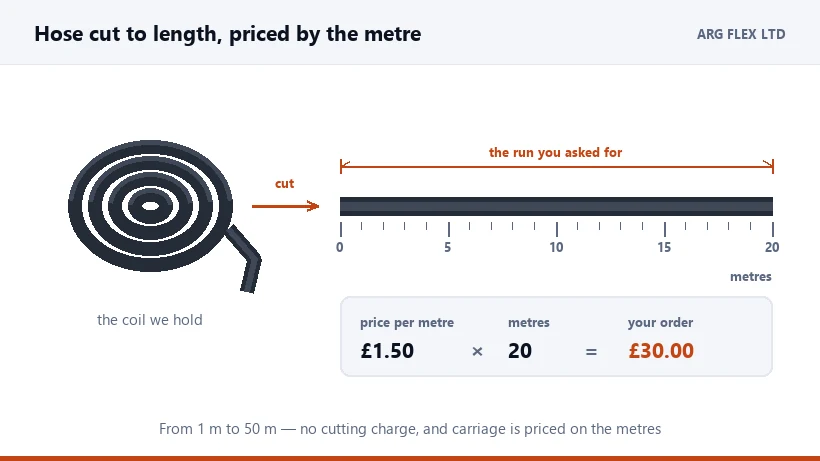
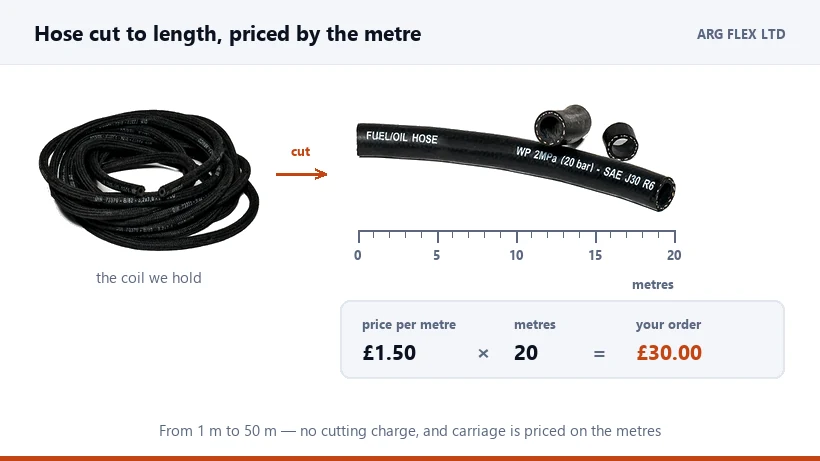
Article images redrawn from the shop's own photographs
The first version was line drawings, which do not belong next to the twenty
articles already there: those are product photographs on white, laid out side
by side with a caption under each. These now match, using photographs already
in assets/img/products, so every pixel is still the shop's own.

The drawing is kept only for what a photograph cannot say — which hose goes
inside the tank and which must not, what a metre scale looks like against a
real length, where on a cut end a bore is measured. The bore article gets the
R6 photograph because it happens to show two cut ends, which is the whole
subject.

Three things the first render got wrong and this one does not: the metre scale
ran underneath the price panel, which covered every number on it; the callout
label sat on the black hose, dark red on black; and the submersible hose was
shot against a pale blue that stayed as a rectangle stuck to the page. The
background is white in that photograph — the cast is a reflection at about
(218, 241, 249), bright but distinctly blue, so it is lifted by colour rather
than by brightness. The hose is far too dark to be touched by that rule.

Still needs a deploy before the Image field in Admin -> Blog can point at
assets/img/blog/<slug>.webp — the files 404 on the server today.

diff --git a/.data/make_blog_images.py b/.data/make_blog_images.py
@@ -1,37 +1,33 @@
-"""Draw the three article images for argflex.co.uk.
+"""Draw the three new article images for argflex.co.uk.
 
-Diagrams, not photographs. For "how to measure a bore" a cross-section with the
-two diameters marked is worth more than any photograph of a hose, and drawing
-them keeps every pixel the shop's own — no stock library, nothing lifted from
-a competitor.
+    python .data/make_blog_images.py
 
-Palette and proportions come from assets/css/v1.css so they sit beside the
-site rather than on top of it. 820x461 is what pages/post.php declares.
+HOUSE STYLE. The twenty older article images are the shop's own product
+photographs on white, laid out side by side with a caption under each. These
+match that: the photographs are the ones already in assets/img/products, so
+every pixel is the shop's own — no stock library, nothing from a competitor's
+catalogue. The drawing on top is only what a photograph cannot say: which hose
+goes inside the tank, what a metre scale looks like, where a bore is measured.
+
+820x461 is the size pages/post.php declares, and the article image is also the
+og:image, so it is what gets shown when somebody shares the page.
 """
 import math
 import os
 from PIL import Image, ImageDraw, ImageFont
 
 W, H = 820, 461
-OUT = os.path.join(os.path.dirname(os.path.abspath(__file__)), '..', 'assets', 'img', 'blog')
-os.makedirs(OUT, exist_ok=True)
+ROOT = os.path.join(os.path.dirname(os.path.abspath(__file__)), '..')
+SRC  = os.path.join(ROOT, 'assets', 'img', 'products')
+OUT  = os.path.join(ROOT, 'assets', 'img', 'blog')
 
-INK   = (11, 18, 32)
-STEEL = (91, 104, 128)
-LINE  = (227, 231, 238)
-SOFT  = (244, 246, 250)
-BG    = (255, 255, 255)
-BRAND = (195, 69, 21)
-BRIGHT = (255, 90, 31)
-RUBBER = (38, 44, 56)
-RUBBER_L = (64, 72, 88)
+INK, STEEL, LINE = (11, 18, 32), (91, 104, 128), (227, 231, 238)
+SOFT, BG, BRAND = (244, 246, 250), (255, 255, 255), (195, 69, 21)
 
-F = 'C:/Windows/Fonts/segoeui.ttf'
-FB = 'C:/Windows/Fonts/segoeuib.ttf'
-def font(size, bold=False):
-    return ImageFont.truetype(FB if bold else F, size)
-
-H1, H2, BODY, SMALL, TINY = font(30, True), font(21, True), font(17), font(15), font(13, True)
+F, FB = 'C:/Windows/Fonts/segoeui.ttf', 'C:/Windows/Fonts/segoeuib.ttf'
+def font(s, bold=False):
+    return ImageFont.truetype(FB if bold else F, s)
+H2, BODY, SMALL, TINY = font(21, True), font(17), font(15), font(13, True)
 
 
 def canvas():
@@ -43,10 +39,51 @@ def canvas():
     return im, d
 
 
-def title(d, text, sub=None):
+def title(d, text):
     d.text((34, 18), text, font=H2, fill=INK)
-    if sub:
-        d.text((W - 34, 24), sub, font=TINY, fill=STEEL, anchor='ra')
+    d.text((W - 34, 24), 'ARG FLEX LTD', font=TINY, fill=STEEL, anchor='ra')
+
+
+def photo(name, box_w, box_h):
+    """A product photograph, trimmed of its margin and fitted to a box.
+
+    The threshold is deliberately generous: these were not all shot on the
+    same white. The submersible hose sits on a pale blue-grey that reads as a
+    panel stuck on the page when it is kept, so anything near-white goes.
+    """
+    im = Image.open(os.path.join(SRC, name + '.webp')).convert('RGB')
+    mask = im.convert('L').point(lambda v: 255 if v < 232 else 0)
+    bbox = mask.getbbox()
+    if bbox:
+        pad = 6
+        im = im.crop((max(0, bbox[0] - pad), max(0, bbox[1] - pad),
+                      min(im.width, bbox[2] + pad), min(im.height, bbox[3] + pad)))
+
+    # The remaining background is levelled to white so photographs taken on
+    # different days sit on one page without seams.
+    im.thumbnail((box_w, box_h), Image.LANCZOS)
+    return whiten(im)
+
+
+def whiten(im, cut=228, tint=200, bias=12):
+    """Lift a near-white photographic background to true white.
+
+    Two different things are removed. The first is anything already near
+    white, which varies a shade between photographs. The second is the pale
+    blue cast the submersible hose was shot against — measured at about
+    (218, 241, 249), light but distinctly blue, so brightness alone leaves it
+    as a rectangle stuck to the page. A pixel that is bright AND noticeably
+    bluer than it is red is that cast; the hose itself is far too dark to
+    qualify, and a neutral grey has no bias to trip on.
+    """
+    px = im.load()
+    for y in range(im.height):
+        for x in range(im.width):
+            r, g, b = px[x, y]
+            if (r >= cut and g >= cut and b >= cut) \
+               or (min(r, g, b) >= tint and b - r >= bias):
+                px[x, y] = (255, 255, 255)
+    return im
 
 
 def arrow(d, x1, y1, x2, y2, colour=BRAND, width=3, head=11):
@@ -57,62 +94,38 @@ def arrow(d, x1, y1, x2, y2, colour=BRAND, width=3, head=11):
                fill=colour, width=width)
 
 
-def dim(d, x1, x2, y, label, colour=BRAND):
-    """A dimension line with ticks at both ends and a label above it."""
-    d.line([x1, y, x2, y], fill=colour, width=2)
+def dim(d, x1, x2, y, label):
+    d.line([x1, y, x2, y], fill=BRAND, width=2)
     for x in (x1, x2):
-        d.line([x, y - 7, x, y + 7], fill=colour, width=2)
-    for s in (1, -1):
-        d.line([x1 if s > 0 else x2, y, (x1 + 9 * s) if s > 0 else (x2 - 9), y - 5], fill=colour, width=2)
+        d.line([x, y - 7, x, y + 7], fill=BRAND, width=2)
     tw = d.textlength(label, font=TINY)
-    d.rectangle([(x1 + x2) / 2 - tw / 2 - 7, y - 24, (x1 + x2) / 2 + tw / 2 + 7, y - 6], fill=BG)
-    d.text(((x1 + x2) / 2, y - 15), label, font=TINY, fill=colour, anchor='mm')
-
-
-def hose_run(d, pts, outer=17, inner=8, colour=RUBBER):
-    """A length of hose drawn as a thick dark line with a lighter core."""
-    d.line(pts, fill=colour, width=outer, joint='curve')
-    d.line(pts, fill=RUBBER_L, width=inner, joint='curve')
+    d.rectangle([(x1 + x2) / 2 - tw / 2 - 7, y - 23, (x1 + x2) / 2 + tw / 2 + 7, y - 5], fill=BG)
+    d.text(((x1 + x2) / 2, y - 14), label, font=TINY, fill=BRAND, anchor='mm')
 
 
 # ---------------------------------------------------------------- image one
 def r6_vs_r10():
     im, d = canvas()
-    title(d, 'SAE J30 R6 and R10 — where each one belongs', 'ARG FLEX LTD')
+    title(d, 'SAE J30 R6 and R10 \u2014 where each one belongs')
 
     mid = W // 2
-    d.line([mid, 92, mid, H - 70], fill=LINE, width=2)
+    d.line([mid, 96, mid, 372], fill=LINE, width=1)
 
-    # ---- left: the tank, with R10 inside it
-    d.text((34, 86), 'INSIDE THE TANK', font=TINY, fill=STEEL)
-    tank = [44, 128, mid - 46, 300]
-    d.rounded_rectangle(tank, radius=18, fill=SOFT, outline=STEEL, width=2)
-    d.rectangle([tank[0] + 10, 206, tank[2] - 10, tank[3] - 12], fill=(206, 221, 238))
-    d.text((tank[0] + 18, 212), 'fuel', font=SMALL, fill=(70, 96, 128))
-    # pump body and the submersible hose looping in the fuel
-    d.rounded_rectangle([mid - 150, 150, mid - 116, 214], radius=6, fill=STEEL)
-    hose_run(d, [(mid - 133, 214), (mid - 133, 254), (118, 254), (118, 224)])
-    d.ellipse([110, 214, 126, 230], outline=RUBBER, width=4)
-    d.text((44, 312), 'SAE J30 R10', font=H2, fill=BRAND)
-    for i, s in enumerate(['FKM tube, thermoplastic lining',
-                           'rated for constant immersion',
-                           '\u221240 \u00b0C to +125 \u00b0C']):
-        d.text((44, 344 + i * 23), '\u2022  ' + s, font=SMALL, fill=INK)
+    for x0, name, head, lines in (
+        (34, 'oil-resistant-hose-sae-j30-r6-10mm', 'SAE J30 R6',
+         ['Tank to engine, oil and return lines', 'NOT to be submerged in fuel',
+          '\u221240 \u00b0C to +100 \u00b0C  \u00b7  13 bores in stock']),
+        (mid + 34, 'submersible-fuel-hose-sae-j30-r10-0-5m-50m', 'SAE J30 R10',
+         ['Inside the tank, around the pump', 'FKM tube, rated for immersion',
+          '\u221240 \u00b0C to +125 \u00b0C']),
+    ):
+        p = photo(name, mid - 92, 170)
+        im.paste(p, (x0 + (mid - 68 - p.width) // 2, 96 + (174 - p.height) // 2))
+        d.text((x0, 286), head, font=H2, fill=BRAND)
+        for i, s in enumerate(lines):
+            d.text((x0, 318 + i * 22), '\u2022  ' + s, font=SMALL, fill=INK)
 
-    # ---- right: the engine run, with R6
-    d.text((mid + 34, 86), 'TANK TO ENGINE', font=TINY, fill=STEEL)
-    d.rounded_rectangle([W - 190, 150, W - 62, 258], radius=10, fill=SOFT, outline=STEEL, width=2)
-    for i in range(4):
-        d.rounded_rectangle([W - 176 + i * 29, 132, W - 158 + i * 29, 152], radius=4, fill=STEEL)
-    d.text((W - 180, 196), 'engine', font=SMALL, fill=STEEL)
-    hose_run(d, [(mid + 44, 300), (mid + 44, 222), (W - 190, 222)])
-    d.text((mid + 34, 312), 'SAE J30 R6', font=H2, fill=BRAND)
-    for i, s in enumerate(['synthetic rubber, oil resistant',
-                           'NOT to be submerged in fuel',
-                           '\u221240 \u00b0C to +100 \u00b0C']):
-        d.text((mid + 34, 344 + i * 23), '\u2022  ' + s, font=SMALL, fill=INK)
-
-    d.text((W // 2, H - 34), 'One standard, two jobs — the wrong one in a tank swells, softens and leaks',
+    d.text((W // 2, H - 32), 'One standard, two jobs \u2014 the wrong one in a tank swells, softens and leaks',
            font=SMALL, fill=STEEL, anchor='mm')
     return im
 
@@ -120,49 +133,43 @@ def r6_vs_r10():
 # ---------------------------------------------------------------- image two
 def cut_to_length():
     im, d = canvas()
-    title(d, 'Hose cut to length, priced by the metre', 'ARG FLEX LTD')
+    title(d, 'Hose cut to length, priced by the metre')
 
-    # A coil of hose: even turns, plus a short tail running off it so the
-    # shape reads as hose rather than as a target.
-    cx, cy = 150, 206
-    for r in (82, 62, 42, 22):
-        d.ellipse([cx - r, cy - r * 0.80, cx + r, cy + r * 0.80], outline=RUBBER, width=14)
-        d.arc([cx - r, cy - r * 0.80, cx + r, cy + r * 0.80],
-              start=185, end=355, fill=RUBBER_L, width=5)
-    hose_run(d, [(cx + 78, cy + 22), (cx + 104, cy + 52), (cx + 96, cy + 86)], outer=14, inner=6)
-    d.text((cx, 318), 'the coil we hold', font=SMALL, fill=STEEL, anchor='mm')
+    coil = photo('fuel-hose-din-73379-b', 226, 170)
+    im.paste(coil, (36 + (226 - coil.width) // 2, 96 + (170 - coil.height) // 2))
+    d.text((149, 276), 'the coil we hold', font=SMALL, fill=STEEL, anchor='mm')
 
-    arrow(d, 252, 206, 318, 206)
-    d.text((285, 182), 'cut', font=TINY, fill=BRAND, anchor='mm')
+    arrow(d, 276, 174, 326, 174)
+    d.text((301, 150), 'cut', font=TINY, fill=BRAND, anchor='mm')
 
-    # the measured run
-    x0, x1, y = 340, 772, 206
-    hose_run(d, [(x0, y), (x1, y)], outer=19, inner=9)
+    # Kept above the arithmetic: the scale used to run underneath it and the
+    # box covered every number on it.
+    run = photo('oil-resistant-hose-sae-j30-r6-10mm', 420, 116)
+    rx, ry = 352, 100
+    im.paste(run, (rx, ry))
+    x0, x1, y = rx + 6, rx + run.width - 6, ry + run.height + 14
+    d.line([x0, y, x1, y], fill=STEEL, width=2)
     step = (x1 - x0) / 20.0
     for i in range(21):
         x = x0 + i * step
         tall = (i % 5 == 0)
-        d.line([x, y + 16, x, y + (30 if tall else 23)], fill=STEEL, width=2 if tall else 1)
+        d.line([x, y, x, y + (12 if tall else 7)], fill=STEEL, width=2 if tall else 1)
         if tall:
-            d.text((x, y + 40), str(i), font=TINY, fill=STEEL, anchor='mm')
-    d.text((x1, y + 60), 'metres', font=TINY, fill=STEEL, anchor='ra')
-    dim(d, x0, x1, y - 40, 'the run you asked for')
+            d.text((x, y + 24), str(i), font=TINY, fill=STEEL, anchor='mm')
+    d.text((x1, y + 44), 'metres', font=TINY, fill=STEEL, anchor='ra')
 
-    # the arithmetic
-    box = [340, 296, 772, 376]
+    box = [340, 300, 784, 378]
     d.rounded_rectangle(box, radius=10, fill=SOFT, outline=LINE, width=2)
-    # One baseline for the figures and the operators between them, so the sum
-    # reads as a line of arithmetic rather than three stacked labels.
-    base = 358
-    for x, cap, val, colour in ((360, 'price per metre', '\u00a31.50', INK),
-                                (508, 'metres', '20', INK),
-                                (628, 'your order', '\u00a330.00', BRAND)):
-        d.text((x, 312), cap, font=TINY, fill=STEEL)
+    base = 360
+    for x, cap, val, colour in ((362, 'price per metre', '\u00a31.50', INK),
+                                (514, 'metres', '20', INK),
+                                (636, 'your order', '\u00a330.00', BRAND)):
+        d.text((x, 314), cap, font=TINY, fill=STEEL)
         d.text((x, base), val, font=H2, fill=colour, anchor='ls')
-    for x, sign in ((478, '\u00d7'), (592, '=')):
+    for x, sign in ((484, '\u00d7'), (600, '=')):
         d.text((x, base), sign, font=H2, fill=STEEL, anchor='ms')
 
-    d.text((W // 2, H - 34), 'From 1 m to 50 m \u2014 no cutting charge, and carriage is priced on the metres',
+    d.text((W // 2, H - 32), 'From 1 m to 50 m \u2014 no cutting charge, and carriage is priced on the metres',
            font=SMALL, fill=STEEL, anchor='mm')
     return im
 
@@ -170,40 +177,42 @@ def cut_to_length():
 # -------------------------------------------------------------- image three
 def measure_bore():
     im, d = canvas()
-    title(d, 'Bore is the hole, not the hose', 'ARG FLEX LTD')
+    title(d, 'Bore is the hole, not the hose')
 
-    cx, cy = 252, 252
-    ro, ri = 118, 70
-    d.ellipse([cx - ro, cy - ro, cx + ro, cy + ro], fill=RUBBER)
-    d.ellipse([cx - ro + 13, cy - ro + 13, cx + ro - 13, cy + ro - 13], fill=RUBBER_L)
-    for a in range(0, 360, 12):                      # the cord reinforcement
-        r1, r2 = ri + 16, ro - 16
-        d.line([cx + r1 * math.cos(math.radians(a)), cy + r1 * math.sin(math.radians(a)),
-                cx + r2 * math.cos(math.radians(a + 7)), cy + r2 * math.sin(math.radians(a + 7))],
-               fill=(104, 114, 132), width=2)
-    d.ellipse([cx - ri, cy - ri, cx + ri, cy + ri], fill=BG, outline=(150, 158, 172), width=2)
+    p = photo('oil-resistant-hose-sae-j30-r6-10mm', 392, 236)
+    px, py = 34, 102
+    im.paste(p, (px, py))
 
-    dim(d, cx - ri, cx + ri, cy + 2, 'BORE')
-    dim(d, cx - ro, cx + ro, cy + ro + 48, 'OUTER DIAMETER')
+    # The cut ends sit in the upper right of this photograph; the callout
+    # points at them rather than trying to measure them, because the exact
+    # pixels move the moment the photograph is replaced.
+    ex, ey = px + int(p.width * 0.70), py + int(p.height * 0.30)
+    d.ellipse([ex - 34, ey - 30, ex + 34, ey + 30], outline=BRAND, width=3)
+    # Stops short of the text column; it used to run into the heading.
+    arrow(d, ex + 40, ey + 2, 432, ey + 2)
+    # Above the ring, on its own white ground: below it the label landed on
+    # the hose and dark red on black cannot be read.
+    label, ly = 'measure across here', ey - 52
+    tw = d.textlength(label, font=TINY)
+    d.rectangle([ex - tw / 2 - 8, ly - 11, ex + tw / 2 + 8, ly + 11], fill=BG)
+    d.text((ex, ly), label, font=TINY, fill=BRAND, anchor='mm')
+    d.line([ex, ly + 12, ex, ey - 31], fill=BRAND, width=2)
 
-    # what each number is for
     d.text((466, 128), 'The bore sizes the hose', font=H2, fill=BRAND)
     for i, s in enumerate(['Measure across the opening, through',
-                           'the centre. It has to match the outside',
-                           'of the fitting it slides onto.']):
+                           'the centre \u2014 ringed on the photograph.',
+                           'It must match the fitting it slides onto.']):
         d.text((466, 164 + i * 24), s, font=BODY, fill=INK)
 
-    d.text((466, 256), 'The outside sizes the clamp', font=H2, fill=BRAND)
+    d.text((466, 252), 'The outside sizes the clamp', font=H2, fill=BRAND)
     for i, s in enumerate(['Measure where the clamp will sit, with',
-                           'the hose on the fitting. Pick a range that',
-                           'brackets it rather than ends on it.']):
-        d.text((466, 292 + i * 24), s, font=BODY, fill=INK)
+                           'the hose on the fitting. Pick a range',
+                           'that brackets it rather than ends on it.']):
+        d.text((466, 288 + i * 24), s, font=BODY, fill=INK)
 
-    d.rounded_rectangle([466, 372, 786, 416], radius=9, fill=SOFT, outline=LINE, width=2)
-    d.text((482, 384), 'Between two sizes? Take the smaller one \u2014',
-           font=SMALL, fill=INK)
-    d.text((482, 400), 'hose stretches onto a fitting, never shrinks.',
-           font=SMALL, fill=INK)
+    d.rounded_rectangle([466, 368, 786, 414], radius=9, fill=SOFT, outline=LINE, width=2)
+    d.text((482, 379), 'Between two sizes? Take the smaller one \u2014', font=SMALL, fill=INK)
+    d.text((482, 396), 'hose stretches onto a fitting, never shrinks.', font=SMALL, fill=INK)
     return im
 
 
@@ -213,8 +222,9 @@ JOBS = [
     ('how-to-measure-hose-bore-inner-diameter', measure_bore),
 ]
 
-for slug, fn in JOBS:
-    im = fn()
-    path = os.path.join(OUT, slug + '.webp')
-    im.save(path, 'WEBP', quality=88, method=6)
-    print('  %-54s %6d bytes  %dx%d' % (slug + '.webp', os.path.getsize(path), *im.size))
+if __name__ == '__main__':
+    for slug, fn in JOBS:
+        img = fn()
+        path = os.path.join(OUT, slug + '.webp')
+        img.save(path, 'WEBP', quality=88, method=6)
+        print('  %-54s %6d bytes  %dx%d' % (slug + '.webp', os.path.getsize(path), *img.size))
